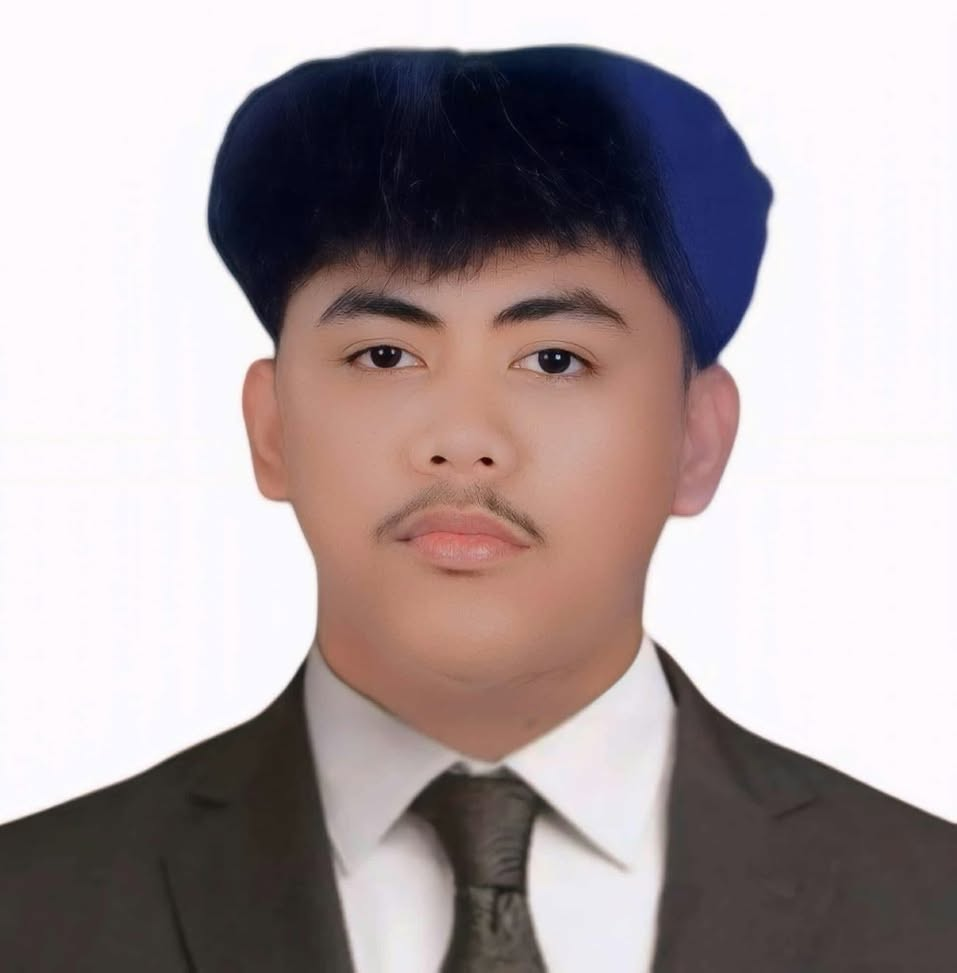
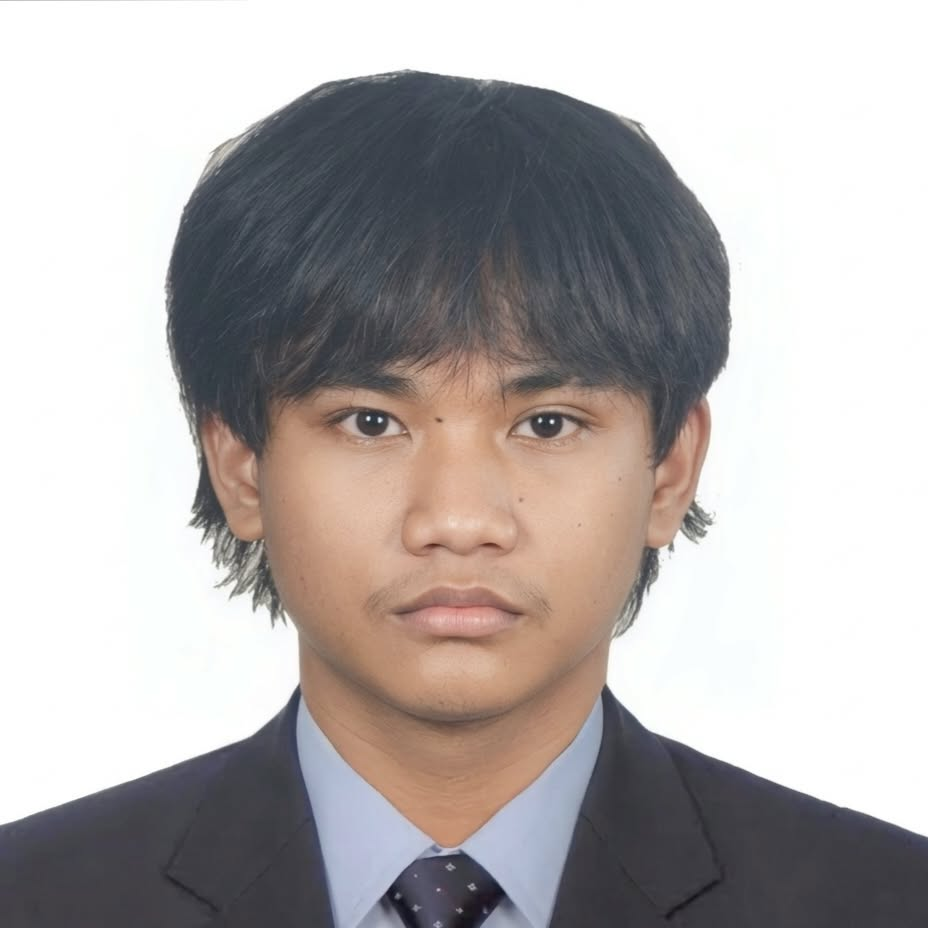
Fix swapped team photos and use John Carlo Resurreccion's full name

diff --git a/LIGTAS/src/screens/AboutPage.jsx b/LIGTAS/src/screens/AboutPage.jsx
@@ -4,7 +4,7 @@ const TEAM = [
   { name: 'Gabriel Santos', role: 'Project Manager', title: 'Co-founder', photo: '/team/gabriel-santos.jpg' },
   { name: 'Jhon Rhey Bautista', role: 'Backend & Frontend Developer', title: 'Founder', photo: '/team/jhon-rhey-bautista.jpg' },
   { name: 'Cedric James Resurreccion', role: 'Quality Assurance', title: 'Co-founder', photo: '/team/cedric-james-resurreccion.jpg' },
-  { name: 'Carlo Resurreccion', role: 'Data Analyst', title: 'Co-founder', photo: '/team/carlo-resurreccion.jpg' },
+  { name: 'John Carlo Resurreccion', role: 'Data Analyst', title: 'Co-founder', photo: '/team/john-carlo-resurreccion.jpg' },
 ]
 
 const AUDIENCES = [
